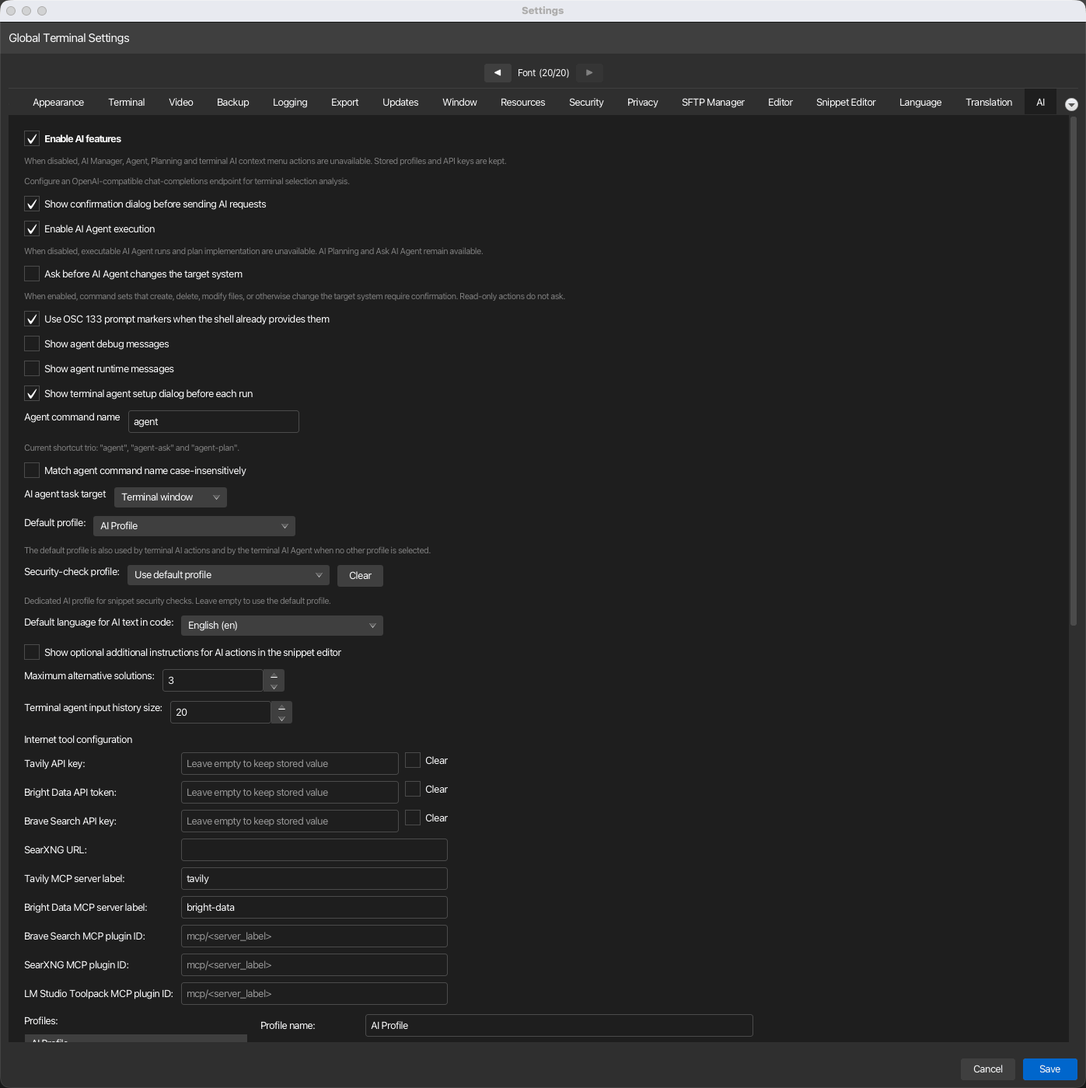
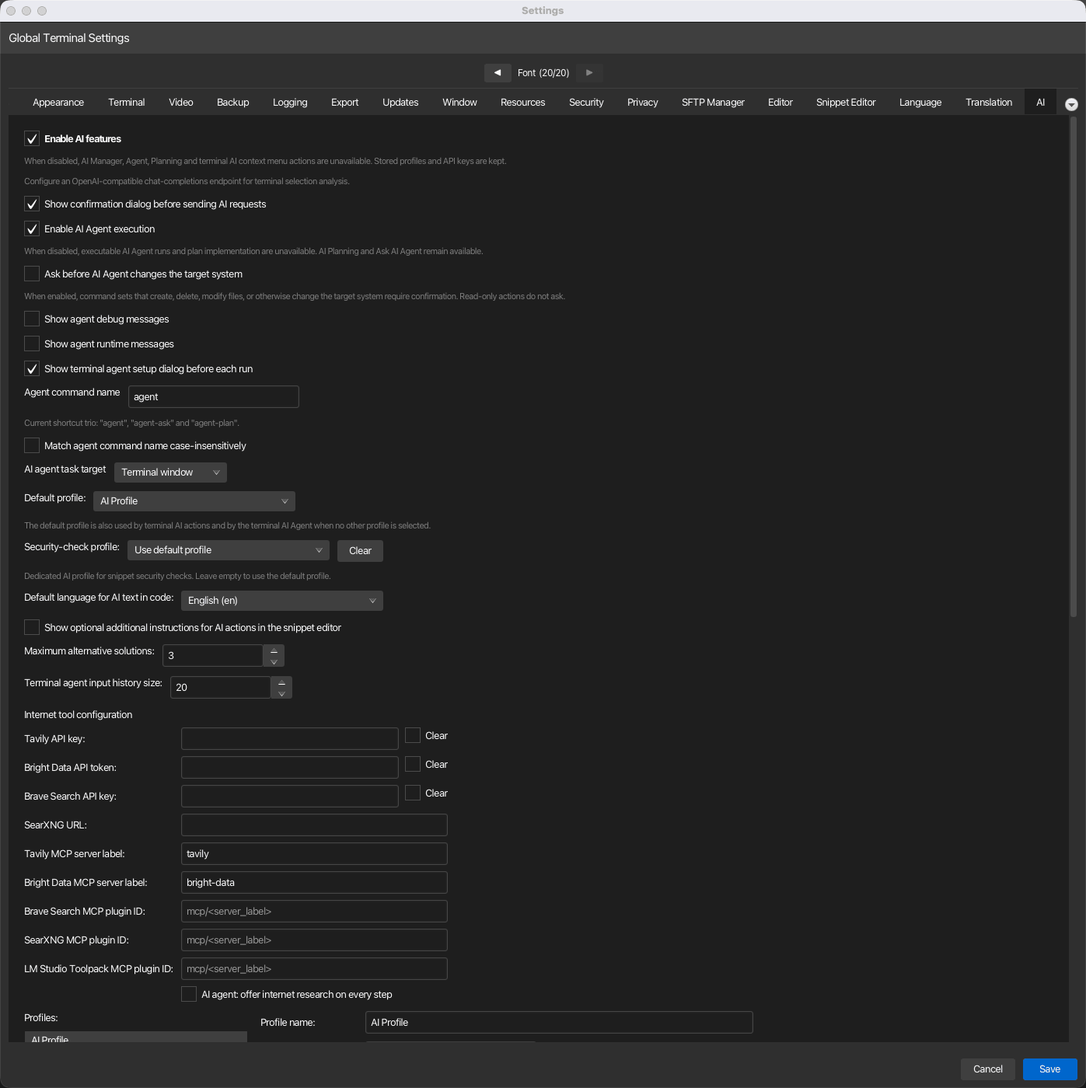
refactor(settings): fold the dead 'Use OSC 133 prompt markers' AI setting into shell integration
Settings > AI showed "Use OSC 133 prompt markers when the shell already
provides them", but nothing read it: the only getters in TerminalView
and MainWindow had no caller, while the AI Agent's prompt detection
sniffed OSC 133 A/B/C out of raw SSH output whatever the setting said.
That detection also drives the TAB completion of agent commands and the
question before closing a busy SSH tab.

- The checkbox, its save line and settings.ai.promptHook (all 8 bundles)
  are gone, as are the two unused getters.
- TerminalView.promptReadinessFromOsc133 now decides from the marks
  only while shellIntegrationEnabled is on; with it off, only the
  prompt's text (looksLikeShellPrompt) tells, as before for shells
  without marks. The setting is read only for a chunk with a mark.
- The last A/B/C mark of a chunk decides. Before, a C anywhere in the
  chunk won, so a short command whose start, output, end and next
  prompt arrived in one read (common with the shell-integration
  snippets) left the session looking busy unless the prompt's text
  matched the heuristic.
- GlobalSettings keeps reading and writing defaultPromptHookEnabled, so
  old settings files load unchanged and an older version finds its
  value; it still does not switch shell integration off.

Tests: AgentPromptMarksFollowShellIntegrationTest (marks, last mark
wins, setting off, lazy settings read, source pins for the checkbox,
the bundles and the view); GlobalSettingsManagerTest loads a settings
[…]

Changed region(s): [[0.0308, 0.2764, 0.4001, 0.9521], [0.3694, 0.6757, 0.4309, 0.7371], [0.1847, 0.2764, 0.277, 0.3071]]

diff --git a/src/test/java/de/kortty/ui/AgentPromptMarksFollowShellIntegrationTest.java b/src/test/java/de/kortty/ui/AgentPromptMarksFollowShellIntegrationTest.java
@@ -1,0 +1,135 @@
+package de.kortty.ui;
+
+import static com.google.common.truth.Truth.assertThat;
+import static com.google.common.truth.Truth.assertWithMessage;
+
+import java.io.IOException;
+import java.nio.charset.StandardCharsets;
+import java.nio.file.Files;
+import java.nio.file.Path;
+import java.util.List;
+import java.util.concurrent.atomic.AtomicInteger;
+import java.util.function.BooleanSupplier;
+import java.util.stream.Stream;
+import org.testng.annotations.Test;
+
+/**
+ * The AI Agent's commands and the close question need to know whether an SSH session is at its shell
+ * prompt. The OSC 133 marks in the raw output tell that, but only while shell integration is on: the
+ * old AI setting "Use OSC 133 prompt markers when the shell already provides them" never changed
+ * anything and is gone, so one switch, {@code shellIntegrationEnabled}, decides for every use of the
+ * marks. Without it, only the prompt's text tells.
+ */
+class AgentPromptMarksFollowShellIntegrationTest {
+
+    private static final String ESC = "\u001B";
+    private static final BooleanSupplier ON = () -> true;
+    private static final BooleanSupplier OFF = () -> false;
+
+    private static String mark(String letter) {
+        return ESC + "]133;" + letter + "\u0007";
+    }
+
+    @Test
+    void aPromptMarkSaysTheShellIsAtItsPrompt() {
+        assertThat(TerminalView.promptReadinessFromOsc133(mark("A") + "user@host:~$ ", ON)).isTrue();
+        assertThat(TerminalView.promptReadinessFromOsc133("user@host:~$ " + mark("B"), ON)).isTrue();
+        assertWithMessage("ST-terminated, as some shells send it")
+            .that(TerminalView.promptReadinessFromOsc133(ESC + "]133;A" + ESC + "\\$ ", ON)).isTrue();
+    }
+
+    @Test
+    void aCommandStartSaysItIsNot() {
+        assertThat(TerminalView.promptReadinessFromOsc133(mark("C") + "building...\r\n", ON)).isFalse();
+    }
+
+    @Test
+    void theLastMarkInAChunkDecides() {
+        String shortCommand = mark("C") + "file.txt\r\n" + mark("D;0") + mark("A") + "$ " + mark("B");
+        assertWithMessage("a short command's start, output, end and the next prompt in one read")
+            .that(TerminalView.promptReadinessFromOsc133(shortCommand, ON)).isTrue();
+        assertWithMessage("Enter at the prompt, and the command starts in the same read")
+            .that(TerminalView.promptReadinessFromOsc133(mark("A") + "$ " + mark("B") + "make\r\n" + mark("C"), ON))
+            .isFalse();
+    }
+
+    @Test
+    void outputWithoutAPromptOrCommandMarkSaysNothing() {
+        assertThat(TerminalView.promptReadinessFromOsc133("plain output\r\n", ON)).isNull();
+        assertThat(TerminalView.promptReadinessFromOsc133("", ON)).isNull();
+        assertThat(TerminalView.promptReadinessFromOsc133(null, ON)).isNull();
+        assertWithMessage("a command end alone: the next prompt's own mark follows")
+            .that(TerminalView.promptReadinessFromOsc133(mark("D;1"), ON)).isNull();
+        assertWithMessage("OSC 7 and other OSCs are not prompt marks")
+            .that(TerminalView.promptReadinessFromOsc133(ESC + "]7;file://host/tmp\u0007" + ESC + "]0;title\u0007", ON))
+            .isNull();
+    }
+
+    @Test
+    void withShellIntegrationOffTheMarksSayNothing() {
+        assertThat(TerminalView.promptReadinessFromOsc133(mark("A") + "$ " + mark("B"), OFF)).isNull();
+        assertThat(TerminalView.promptReadinessFromOsc133(mark("C") + "output", OFF)).isNull();
+    }
+
+    @Test
+    void theSettingIsReadOnlyForAChunkWithAMark() {
+        AtomicInteger reads = new AtomicInteger();
+        BooleanSupplier counting = () -> {
+            reads.incrementAndGet();
+            return true;
+        };
+        TerminalView.promptReadinessFromOsc133("a lot of plain output\r\n", counting);
+        TerminalView.promptReadinessFromOsc133(mark("D;0"), counting);
+        assertThat(reads.get()).isEqualTo(0);
+        TerminalView.promptReadinessFromOsc133(mark("A"), counting);
+        assertThat(reads.get()).isEqualTo(1);
+    }
+
+    @Test
+    void theViewReadsThePromptMarksThroughTheShellIntegrationSetting() throws IOException {
+        String view = source("ui/TerminalView.java");
+        String record = body(view, "private void recordAgentShortcutPromptSignal(SshTtyConnector sourceConnector, String data) {");
+        assertThat(record).contains(
+            "Boolean markedPromptReady = promptReadinessFromOsc133(data, TerminalView::isShellIntegrationEnabled);");
+        assertWithMessage("no OSC 133 sniffing besides the one that honours the setting")
+            .that(record).doesNotContain("\\u001B]133;");
+        assertWithMessage("the prompt's text still tells when the marks do not")
+            .that(record).contains("if (looksLikeShellPrompt(lastLine)) {");
+    }
+
+    @Test
+    void theOldAiPromptMarkerCheckboxIsGone() throws IOException {
+        String dialog = source("ui/SettingsDialog.java");
+        assertThat(dialog).doesNotContain("settings.ai.promptHook");
+        assertThat(dialog).doesNotContain("PromptHookEnabled");
+        for (String file : List.of("ui/TerminalView.java", "ui/MainWindow.java")) {
+            assertWithMessage(file + " reads the old setting").that(source(file)).doesNotContain("PromptHookEnabled");
+        }
+        try (Stream<Path> bundles = Files.list(Path.of("src/main/resources/i18n"))) {
+            List<Path> properties = bundles
+                .filter(path -> path.getFileName().toString().matches("messages(_[a-z]{2})?\\.properties"))
+                .toList();
+            assertThat(properties).hasSize(8);
+            for (Path bundle : properties) {
+                assertWithMessage(bundle.getFileName().toString())
+                    .that(Files.readString(bundle, StandardCharsets.UTF_8)).doesNotContain("settings.ai.promptHook");
+            }
+        }
+    }
+
+    private static String source(String file) throws IOException {
+        // Windows CI checks the sources out with CRLF line endings.
+        return Files.readString(Path.of("src/main/java/de/kortty", file), StandardCharsets.UTF_8).replace("\r\n", "\n");
+    }
+
+    /** The text of the method whose declaration is {@code signature}, up to its closing brace at that indent. */
+    private static String body(String source, String signature) {
+        int start = source.indexOf(signature);
+        assertWithMessage("missing " + signature).that(start).isAtLeast(0);
+        int lineStart = source.lastIndexOf('\n', start) + 1;
+        String indent = source.substring(lineStart, start);
+        int end = source.indexOf("\n" + indent + "}\n", start);
+        assertWithMessage("no end of " + signature).that(end).isGreaterThan(start);
+        return source.substring(start, end);
+    }
+}

diff --git a/src/main/java/de/kortty/ui/TerminalView.java b/src/main/java/de/kortty/ui/TerminalView.java
@@ -490,6 +490,9 @@ public class TerminalView extends BorderPane {
     private final Map<SithTermFxWidget, StringBuilder> agentShortcutBuffers = new ConcurrentHashMap<>();
     private final StringBuilder agentShortcutPromptTail = new StringBuilder();
     private final Map<SshTtyConnector, StringBuilder> terminalAgentOscBuffers = new ConcurrentHashMap<>();
+    /** The start of an OSC 133 shell-integration mark in raw output, before its letter (A, B, C, D). */
+    private static final String OSC_133_PREFIX = "\u001B]133;";
+    // At a shell prompt: from the OSC 133 marks while shell integration is on, else from the prompt's text.
     private volatile boolean agentShortcutPromptReady;
     private TerminalAgentCompletionPopup agentCompletionPopup;
     private volatile boolean timestampGuttersVisibleState;
@@ -5234,16 +5237,6 @@ public class TerminalView extends BorderPane {
         return !caseInsensitiveCommandName || canInterceptBufferedAgentShortcut(rawCommand, commandName, false);
     }
 
-    private boolean isTerminalAgentPromptHookEnabled() {
-        try {
-            var gsm = KorTTYApplication.getInstance().getGlobalSettingsManager();
-            var gs = gsm != null ? gsm.getSettings() : null;
-            return gs == null || gs.isDefaultPromptHookEnabled();
-        } catch (Exception e) {
-            return true;
-        }
-    }
-
     private boolean isTerminalAgentShortcutEnabled() {
         try {
             var gsm = KorTTYApplication.getInstance().getGlobalSettingsManager();
@@ -5312,11 +5305,9 @@ public class TerminalView extends BorderPane {
             sourceConnector,
             data,
             payload -> dispatchTerminalAgentOscPayload(sourceConnector, payload));
-        if (data.contains("\u001B]133;A") || data.contains("\u001B]133;B")) {
-            agentShortcutPromptReady = true;
-        }
-        if (data.contains("\u001B]133;C")) {
-            agentShortcutPromptReady = false;
+        Boolean markedPromptReady = promptReadinessFromOsc133(data, TerminalView::isShellIntegrationEnabled);
+        if (markedPromptReady != null) {
+            agentShortcutPromptReady = markedPromptReady;
         }
 
         synchronized (agentShortcutPromptTail) {
@@ -5338,6 +5329,27 @@ public class TerminalView extends BorderPane {
                 }
             }
         }
+    }
+
+    /**
+     * What the OSC 133 marks in a chunk of raw SSH output say about the shell's prompt, for the AI
+     * Agent's commands and the close question: {@code true} when the chunk's last mark is a prompt
+     * mark (A or B), {@code false} when it is a command start (C), and {@code null} when the chunk
+     * has neither or shell integration is off. Then only the prompt's text tells ({@link
+     * #looksLikeShellPrompt}). The last mark decides because a short command's start, output, end
+     * and the next prompt often arrive in one chunk. The setting is read only for a chunk with a
+     * mark in it, so plain output never touches the settings.
+     */
+    static @Nullable Boolean promptReadinessFromOsc133(@Nullable String data, BooleanSupplier shellIntegrationEnabled) {
+        if (data == null || !data.contains(OSC_133_PREFIX)) {
+            return null;
+        }
+        int prompt = Math.max(data.lastIndexOf(OSC_133_PREFIX + 'A'), data.lastIndexOf(OSC_133_PREFIX + 'B'));
+        int command = data.lastIndexOf(OSC_133_PREFIX + 'C');
+        if ((prompt < 0 && command < 0) || !shellIntegrationEnabled.getAsBoolean()) {
+            return null;
+        }
+        return prompt > command;
     }
 
     /**

diff --git a/src/test/java/de/kortty/core/GlobalSettingsManagerTest.java b/src/test/java/de/kortty/core/GlobalSettingsManagerTest.java
@@ -245,6 +245,48 @@ class GlobalSettingsManagerTest {
     }
 
     @Test
+    void aFileWithTheOldAiPromptMarkerSettingStillLoads() throws Exception {
+        Path dir = Files.createTempDirectory("kortty-global-settings-prompt-hook");
+        try {
+            // Written by a version that still showed "Use OSC 133 prompt markers when the shell
+            // already provides them" in Settings > AI, unticked, and had no shell integration switch.
+            Files.writeString(dir.resolve("global-settings.xml"), """
+                <?xml version="1.0" encoding="UTF-8" standalone="yes"?>
+                <globalSettings>
+                    <language>en</language>
+                    <aiConfirmBeforeSend>false</aiConfirmBeforeSend>
+                    <terminalAgentExecutionEnabled>true</terminalAgentExecutionEnabled>
+                    <defaultPromptHookEnabled>false</defaultPromptHookEnabled>
+                    <terminalAgentShowDebugMessages>true</terminalAgentShowDebugMessages>
+                    <terminalAgentCommandName>susi</terminalAgentCommandName>
+                </globalSettings>
+                """);
+            GlobalSettingsManager manager = new GlobalSettingsManager(dir);
+            manager.load();
+            GlobalSettings settings = manager.getSettings();
+
+            assertThat(settings.isAiConfirmBeforeSend()).isFalse();
+            assertThat(settings.isTerminalAgentShowDebugMessages()).isTrue();
+            assertThat(settings.getTerminalAgentCommandName()).isEqualTo("susi");
+            assertThat(settings.isDefaultPromptHookEnabled()).isFalse();
+            // The old checkbox never changed anything, so its value does not turn the marks off.
+            assertThat(settings.isShellIntegrationEnabled()).isTrue();
+
+            // Saved again, the file keeps the old value for an older version started on it.
+            manager.save();
+            assertThat(Files.readString(dir.resolve("global-settings.xml")))
+                .contains("<defaultPromptHookEnabled>false</defaultPromptHookEnabled>");
+            GlobalSettingsManager reloaded = new GlobalSettingsManager(dir);
+            reloaded.load();
+            assertThat(reloaded.getSettings().isDefaultPromptHookEnabled()).isFalse();
+            assertThat(reloaded.getSettings().isShellIntegrationEnabled()).isTrue();
+        } finally {
+            Files.deleteIfExists(dir.resolve("global-settings.xml"));
+            Files.deleteIfExists(dir);
+        }
+    }
+
+    @Test
     void saveAndLoadPreservesCustomSnippetCodeLanguages() throws Exception {
         Path dir = Files.createTempDirectory("kortty-global-settings");
         try {

diff --git a/src/main/java/de/kortty/ui/SettingsDialog.java b/src/main/java/de/kortty/ui/SettingsDialog.java
@@ -342,7 +342,6 @@ public class SettingsDialog extends ThemeAwareDialog<ConnectionSettings> {
     private final CheckBox aiConfirmBeforeSendCheck;
     private final CheckBox aiTerminalAgentExecutionEnabledCheck;
     private final CheckBox aiTerminalAgentConfirmMutatingCommandSetsCheck;
-    private final CheckBox aiPromptHookEnabledCheck;
     private final CheckBox aiShowDebugMessagesCheck;
     private final CheckBox aiShowRuntimeMessagesCheck;
     private final CheckBox aiTerminalAgentShowRunDialogCheck;
@@ -2244,10 +2243,6 @@ public class SettingsDialog extends ThemeAwareDialog<ConnectionSettings> {
         aiTerminalAgentConfirmMutatingHint.setWrapText(true);
         aiTerminalAgentConfirmMutatingHint.setStyle("-fx-font-size: 0.8462em; -fx-text-fill: gray;");
         aiRoot.getChildren().add(aiTerminalAgentConfirmMutatingHint);
-
-        aiPromptHookEnabledCheck = new CheckBox(I18n.get("settings.ai.promptHook"));
-        aiPromptHookEnabledCheck.setSelected(globalSettings == null || globalSettings.isDefaultPromptHookEnabled());
-        aiRoot.getChildren().add(aiPromptHookEnabledCheck);
 
         aiShowDebugMessagesCheck = new CheckBox(I18n.get("settings.ai.showDebugMessages"));
         aiShowDebugMessagesCheck.setSelected(globalSettings != null && globalSettings.isTerminalAgentShowDebugMessages());
@@ -6132,9 +6127,6 @@ public class SettingsDialog extends ThemeAwareDialog<ConnectionSettings> {
         }
         if (aiTerminalAgentConfirmMutatingCommandSetsCheck != null) {
             targetSettings.setTerminalAgentConfirmMutatingCommandSets(aiTerminalAgentConfirmMutatingCommandSetsCheck.isSelected());
-        }
-        if (aiPromptHookEnabledCheck != null) {
-            targetSettings.setDefaultPromptHookEnabled(aiPromptHookEnabledCheck.isSelected());
         }
         if (aiShowDebugMessagesCheck != null) {
             targetSettings.setTerminalAgentShowDebugMessages(aiShowDebugMessagesCheck.isSelected());

diff --git a/src/main/java/de/kortty/model/GlobalSettings.java b/src/main/java/de/kortty/model/GlobalSettings.java
@@ -363,7 +363,8 @@ public class GlobalSettings {
 
     /**
      * Shell integration: korTTY reads the OSC 133 command marks that a shell set up for shell integration sends, and offers
-     * prompt navigation. On by default; nothing changes for a shell that sends no marks.
+     * prompt navigation. On by default; nothing changes for a shell that sends no marks. While it is on, the AI Agent's
+     * commands also use the marks to tell that the shell is at its prompt; it replaced {@link #defaultPromptHookEnabled}.
      */
     @XmlElement
     private boolean shellIntegrationEnabled = true;
@@ -724,7 +725,13 @@ public class GlobalSettings {
     @XmlElement
     private boolean terminalAgentConfirmMutatingCommandSets = false;
 
-    /** Prefer OSC 133 prompt markers when the shell emits them. */
+    /**
+     * The former AI setting "Use OSC 133 prompt markers when the shell already provides them". It
+     * never changed anything and is no longer shown: the OSC 133 marks follow
+     * {@link #shellIntegrationEnabled} alone, also for the AI Agent's prompt detection. The value is
+     * still read and written, so settings files of older versions load as before and an older
+     * version started again finds the choice it saved.
+     */
     @XmlElement
     private boolean defaultPromptHookEnabled = true;
 
@@ -2848,6 +2855,7 @@ public class GlobalSettings {
         this.terminalAgentConfirmMutatingCommandSets = terminalAgentConfirmMutatingCommandSets;
     }
 
+    /** The former AI prompt-marker setting, kept for settings files only; see {@link #defaultPromptHookEnabled}. */
     public boolean isDefaultPromptHookEnabled() {
         return defaultPromptHookEnabled;
     }

diff --git a/src/main/java/de/kortty/ui/MainWindow.java b/src/main/java/de/kortty/ui/MainWindow.java
@@ -8860,11 +8860,6 @@ public class MainWindow {
             : I18n.get("ai.agent.connection.unknown");
     }
 
-    private boolean isTerminalPromptHookEnabled() {
-        GlobalSettings settings = app.getGlobalSettingsManager().getSettings();
-        return settings == null || settings.isDefaultPromptHookEnabled();
-    }
-
     private void showAiAgent() {
         if (!isAiFeaturesEnabled()) {
             return;

diff --git a/src/test/java/de/kortty/core/AiI18nCoverageTest.java b/src/test/java/de/kortty/core/AiI18nCoverageTest.java
@@ -146,7 +146,6 @@ class AiI18nCoverageTest {
         "ai.result.attachment.flowchart.title",
         "settings.ai.featuresEnabled",
         "settings.ai.featuresEnabled.hint",
-        "settings.ai.promptHook",
         "settings.ai.terminalAgentExecutionEnabled",
         "settings.ai.terminalAgentExecutionEnabled.hint",
         "settings.ai.terminalAgentConfirmMutatingCommandSets",

diff --git a/app-docs/site/docs/en/reference/settings/terminal.md b/app-docs/site/docs/en/reference/settings/terminal.md
@@ -86,7 +86,7 @@ Configure terminal display and behavior settings, including dimensions, scrollba
     Whether a program uses bracketed paste is what the server reports, and any output can switch it on, also in a shell such as `sh` that does not handle it. Pasted line breaks then run without a warning, so choose **Always** if you work on production servers.
 
 !!! note "Shell integration"
-    With **Use the command marks of shells set up for shell integration (OSC 133)** on, korTTY reads the invisible marks that a shell with korTTY's snippet in its startup file prints around every prompt and command, and ++cmd+shift+up++ / ++cmd+shift+down++ (++ctrl+shift+up++ / ++ctrl+shift+down++ on Windows and Linux), *Edit → Previous Prompt / Next Prompt* and the terminal's right-click menu jump between the prompts. The snippets for bash, zsh and fish are on the [Shell integration](../../features/shell-integration.md#setting-it-up) page, and **Set Up Shell Integration…** opens a window with them and a **Copy** button, also while the setting is off. Without a snippet in the shell's startup file nothing changes. Switched off, the prompt keys reach the program in the terminal and the right-click menu has no shell-integration entries. The setting is read on every mark and key press, so a change applies to open tabs as soon as you save.
+    With **Use the command marks of shells set up for shell integration (OSC 133)** on, korTTY reads the invisible marks that a shell with korTTY's snippet in its startup file prints around every prompt and command, and ++cmd+shift+up++ / ++cmd+shift+down++ (++ctrl+shift+up++ / ++ctrl+shift+down++ on Windows and Linux), *Edit → Previous Prompt / Next Prompt* and the terminal's right-click menu jump between the prompts. The snippets for bash, zsh and fish are on the [Shell integration](../../features/shell-integration.md#setting-it-up) page, and **Set Up Shell Integration…** opens a window with them and a **Copy** button, also while the setting is off. Without a snippet in the shell's startup file nothing changes. The marks also tell korTTY that an SSH session is at its prompt, for the AI Agent's `agent` commands and the question before closing a busy tab; this setting replaces **Use OSC 133 prompt markers when the shell already provides them**, which *Settings → AI* used to show and which changed nothing. Switched off, the prompt keys reach the program in the terminal, the right-click menu has no shell-integration entries, and korTTY tells that a session is at its prompt from the prompt's text alone. The setting is read on every mark and key press, so a change applies to open tabs as soon as you save.
 
 !!! note "Notifications"
     A program that rings the terminal bell in a tab you are not looking at always marks that tab with 🔔 until you look at it; this needs no setting. **Desktop notification when the bell rings in a tab you are not looking at** adds a desktop notification titled `korTTY · ` and the tab's name, at most one per pane every 10 seconds. It is off by default because shells ring the bell on every failed Tab completion, and a pane with a detected coding agent gets none while the coding-agent notifications are on. The setting is read on every bell, so a change applies to open tabs as soon as you save.

diff --git a/app-docs/site/docs/en/features/shell-integration.md b/app-docs/site/docs/en/features/shell-integration.md
@@ -4,7 +4,7 @@ title: Shell integration
 
 # Shell integration
 
-With shell integration, the shell tells korTTY where each prompt starts, where the command you type starts, where its output starts and how the command ended. It does so with invisible OSC 133 marks, the same ones iTerm2, WezTerm, kitty and VS Code read, which a few lines in the shell's startup file add. korTTY uses them to jump between the prompts of a long session with one key, to select or copy what the last command printed, to show in the command timestamp sidebar how each command ended and how long it ran, and to tell you when a long command finishes in a tab you are not looking at.
+With shell integration, the shell tells korTTY where each prompt starts, where the command you type starts, where its output starts and how the command ended. It does so with invisible OSC 133 marks, the same ones iTerm2, WezTerm, kitty and VS Code read, which a few lines in the shell's startup file add. korTTY uses them to jump between the prompts of a long session with one key, to select or copy what the last command printed, to show in the command timestamp sidebar how each command ended and how long it ran, and to tell you when a long command finishes in a tab you are not looking at. In an SSH session they also tell korTTY that the shell is at its prompt, which the AI Agent's `agent` commands and the question before closing a busy tab rely on.
 
 Without the marks nothing changes: the keys reach the shell as before, and the terminal looks and behaves as it always did.
 
@@ -249,4 +249,4 @@ The marks and the exit statuses exist only in korTTY's memory for as long as the
 
 ## Switching it off
 
-*Settings → Terminal → Shell integration* has **Use the command marks of shells set up for shell integration (OSC 133)**, on by default. Switched off, korTTY ignores the marks: the prompt keys reach the program, the right-click menu shows no shell-integration entries, the timestamp sidebar shows no exit statuses, and no long command marks its tab or notifies. The change applies to open tabs as soon as you save. The marks stay invisible either way, because the terminal never shows OSC 133 sequences. See [Terminal settings](../reference/settings/terminal.md#notes).
+*Settings → Terminal → Shell integration* has **Use the command marks of shells set up for shell integration (OSC 133)**, on by default. Switched off, korTTY ignores the marks: the prompt keys reach the program, the right-click menu shows no shell-integration entries, the timestamp sidebar shows no exit statuses, no long command marks its tab or notifies, and korTTY tells that an SSH session is at its prompt from the prompt's text alone, for the AI Agent's `agent` commands and for the question before closing a busy tab. This one setting covers every use of the marks; *Settings → AI* no longer has an option of its own for them. The change applies to open tabs as soon as you save. The marks stay invisible either way, because the terminal never shows OSC 133 sequences. See [Terminal settings](../reference/settings/terminal.md#notes).

diff --git a/app-docs/site/docs/en/about/release-notes.md b/app-docs/site/docs/en/about/release-notes.md
@@ -87,6 +87,7 @@ What changed in the current release. The version this guide was built for is sho
 
 - **The AI agent asks before it runs in a switched session** — after `su`, `sudo -i` or a nested `ssh` in a terminal, the agent's commands would still run over the tab's original connection, as the user the tab was opened with, not as the user the prompt shows. AI Agent and AI Planning now warn first and name the `user@host` (or "on this computer" in a local-shell tab) the commands will really run as; **Cancel** is the default. The check also covers rerunning a command with the activity panel's reload button and the execution of an accepted plan. See [Safety and failure handling](../features/ai-assistant.md#safety-and-failure-handling).
 - **No internet mode for native Anthropic profiles** — korTTY sends no web tools to the native Anthropic Messages API, so a mode such as KorTTY Tavily Tool had no effect there. For such profiles the **Internet access** dropdown is now locked to **Disabled** with a hint explaining why. See [AI internet access](../features/ai-assistant.md#ai-internet-access).
+- **One switch for the shell's prompt marks** — *Settings → AI* had **Use OSC 133 prompt markers when the shell already provides them**, which changed nothing: the AI Agent's `agent` commands and the question before closing a busy SSH tab read the marks either way. The option is gone, and both now follow **Use the command marks of shells set up for shell integration (OSC 133)** in *Settings → Terminal*, like every other use of the marks; switched off, korTTY tells that an SSH session is at its prompt from the prompt's text alone. A short command whose output and next prompt arrive together no longer leaves the session looking busy, and a choice saved for the old option stays in the settings file without effect. See [Shell integration](../features/shell-integration.md#switching-it-off).
 
 ### AI usage and costs
 

diff --git a/app-docs/site/docs/en/reference/settings/ai.md b/app-docs/site/docs/en/reference/settings/ai.md
@@ -21,7 +21,6 @@ Configure AI profiles and terminal AI Agent settings. This is the largest settin
 | --- | --- | --- | --- | --- |
 | Enable AI Agent execution | toggle | — | On | `terminalAgentExecutionEnabled` |
 | Ask before AI Agent changes the target system | toggle | — | Off | `terminalAgentConfirmMutatingCommandSets` |
-| Use OSC 133 prompt markers when the shell already provides them | toggle | — | On | `defaultPromptHookEnabled` |
 | Show agent debug messages | toggle | — | Off | `terminalAgentShowDebugMessages` |
 | Show agent runtime messages | toggle | — | Off | `terminalAgentShowRuntimeMessages` |
 | Show terminal agent setup dialog before each run | toggle | — | On | `terminalAgentShowRunDialog` |

diff --git a/app-docs/site/docs/en/features/ai-assistant.md b/app-docs/site/docs/en/features/ai-assistant.md
@@ -342,6 +342,8 @@ At the shell prompt, TAB completion is enhanced for agent commands:
 
 History size is configurable in **Settings > AI** (default 20, range 5–100).
 
+In an SSH session korTTY tells that the shell is at its prompt from the OSC 133 marks of a shell set up for [shell integration](shell-integration.md), while **Use the command marks of shells set up for shell integration (OSC 133)** in *Settings → Terminal* is on, and otherwise from the prompt's text, such as `user@host:~$`.
+
 ### How the AI Agent works
 
 The Terminal AI Agent is a controlled terminal automation workflow. It does not run arbitrary model output directly in the interactive terminal. Instead, each turn follows this pattern:
